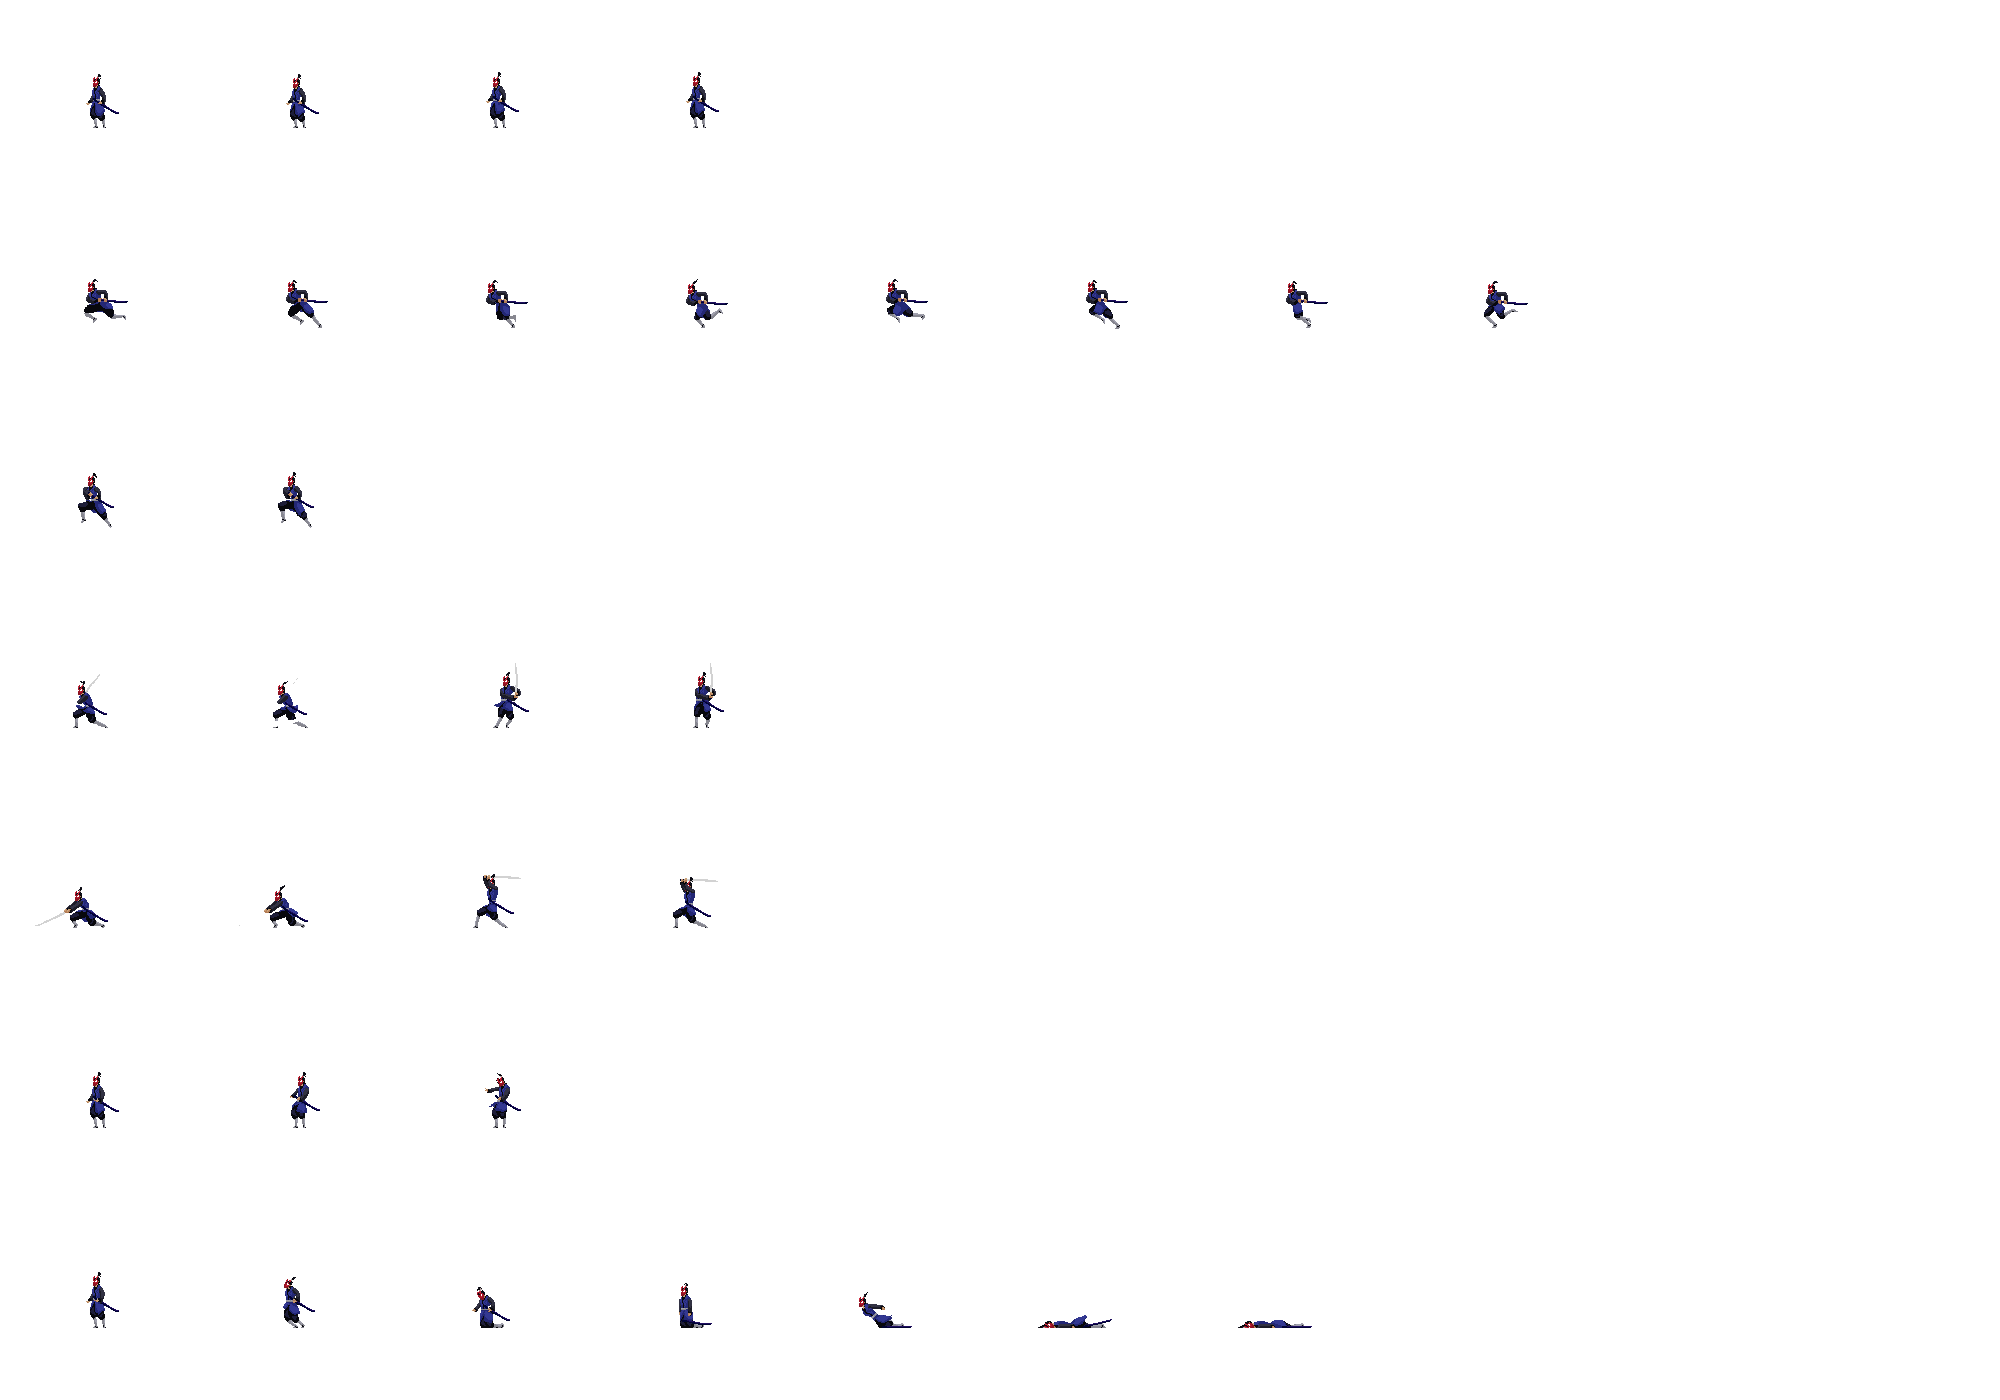
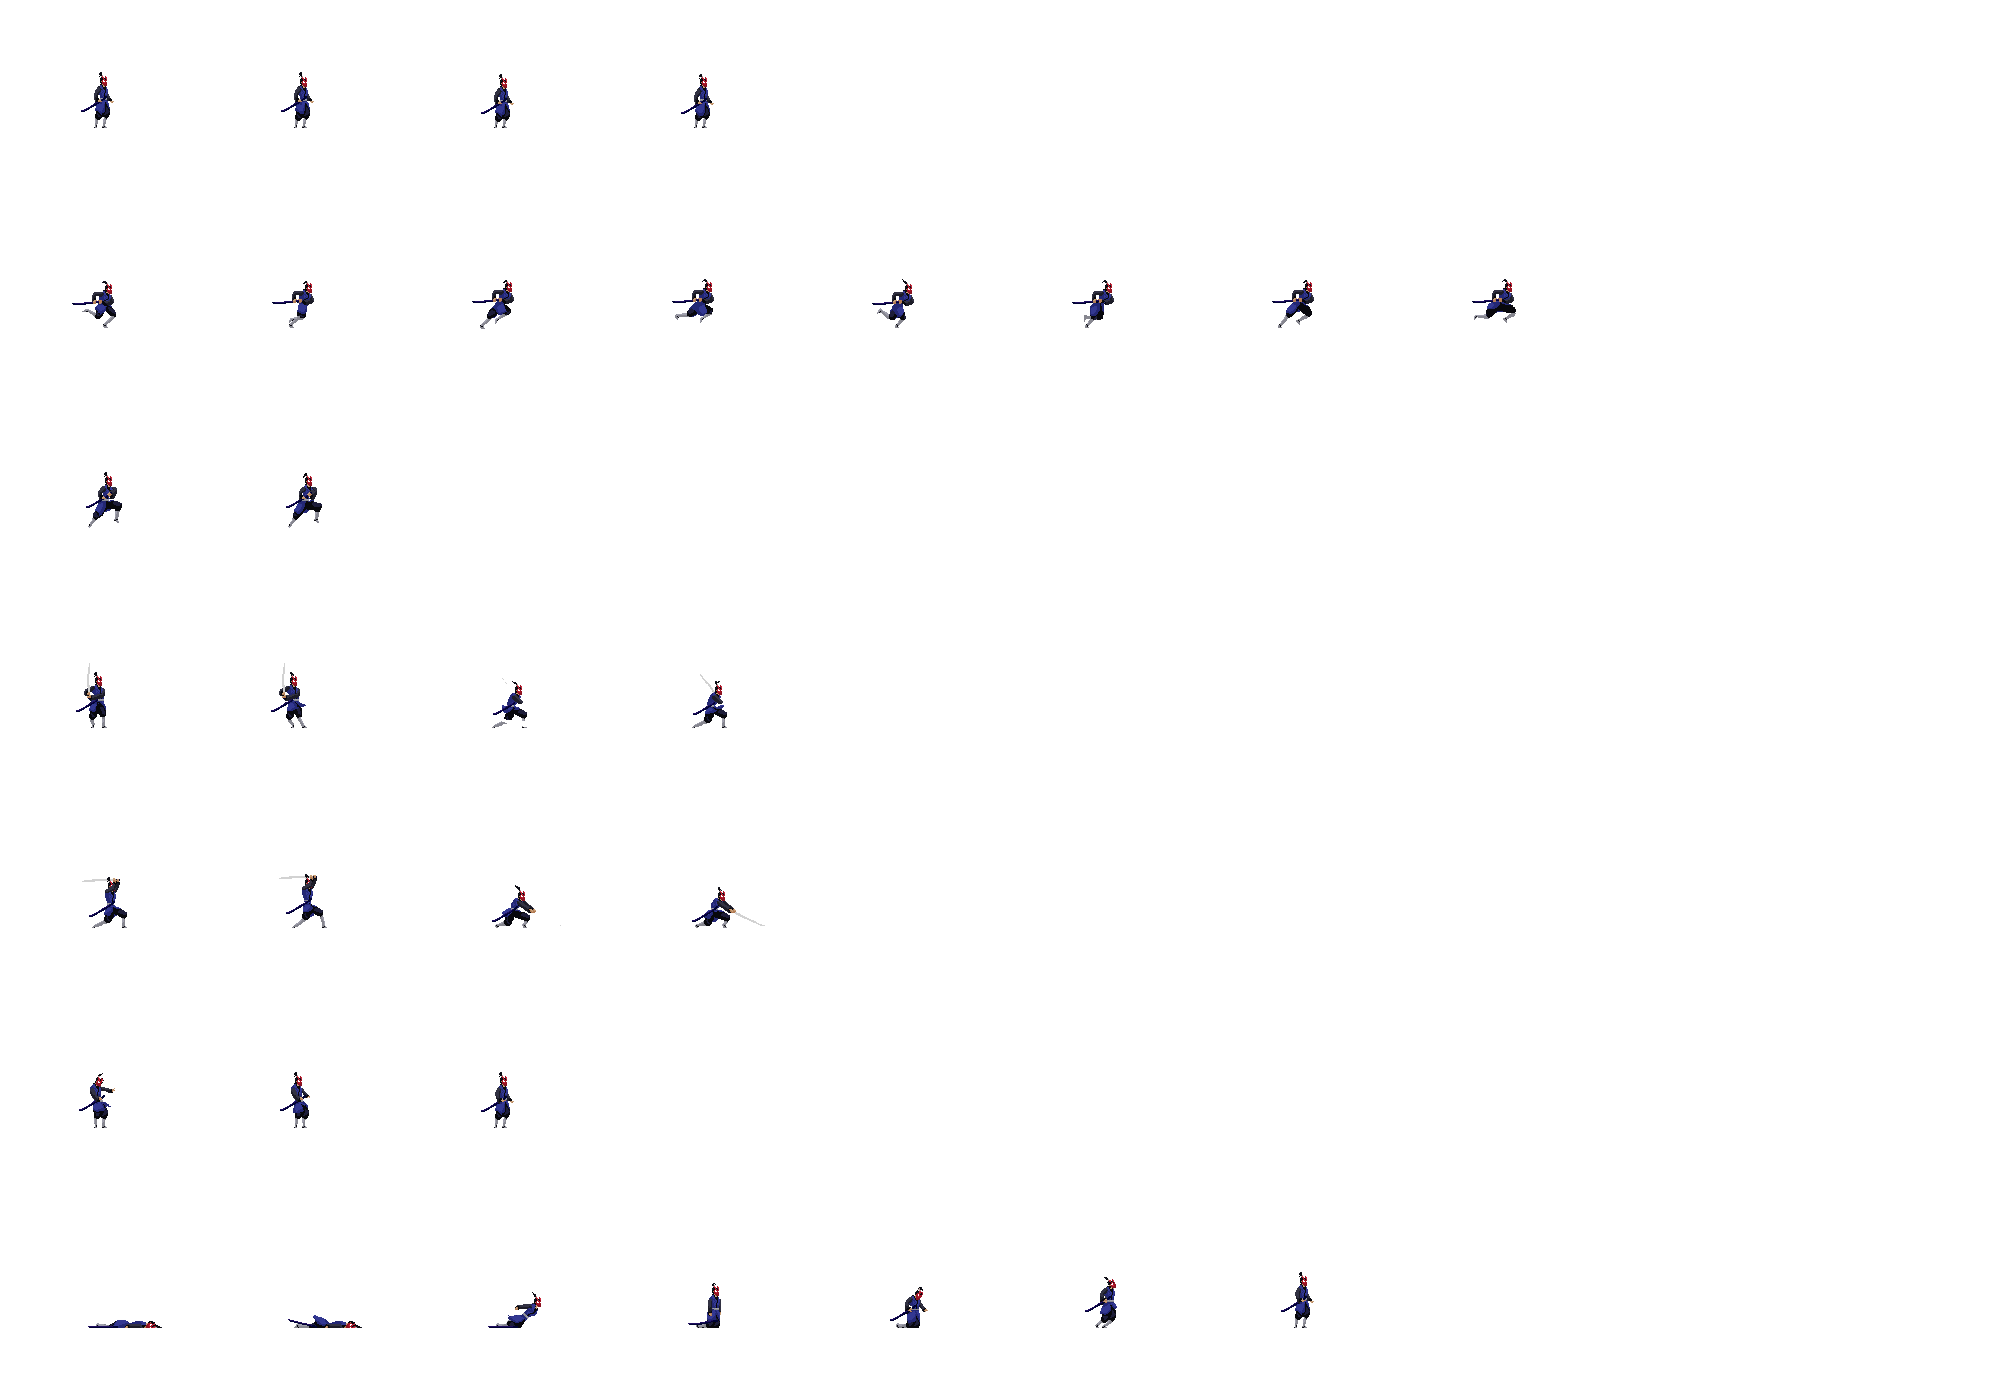
fixing the fliping issue

diff --git a/fighter.py b/fighter.py
@@ -1,11 +1,12 @@
 import pygame
 
 class Fighter():
-    def __init__(self,x,y,flip,data,spritesheet,animation_list):
+    def __init__(self,player,x,y,flip,data,spritesheet,animation_list):
+        self.player = player
         self.size = data[0]
         self.scale = data[1]
         self.offset = data[2]
-        self.flip = flip
+        self.flip =  flip
         self.animationlist = self.load_images(spritesheet,animation_list)
         self.action = 0 #0 = idle, 1 = run, 2 = jumping, 3 = attack1, 4 = attack2 , 5 = hit, 6 = death
         self.frame_index = 0
@@ -51,28 +52,49 @@ class Fighter():
 
         #can only move if not attacking
         if self.attacking == False:
-
+            # check player 1 movement
+            if self.player == 1:
             #movement
-            if key[pygame.K_a]:
-                self.running = True
-                dx = -Speed
-            if key[pygame.K_d]:
-                self.running = True
-                dx = Speed
-            #jumping
-            if key[pygame.K_w] and self.jump == False:
-                self.vel_y = -30
-                self.jump = True
-            #attack
-            if key[pygame.K_s] or key[pygame.K_e]:
-                self.attack(surface,target)
-                #determine which attack is used
-                if key[pygame.K_s]:
+                if key[pygame.K_a]:
+                    self.running = True
+                    dx = -Speed
+                if key[pygame.K_d]:
+                    self.running = True
+                    dx = Speed
+                #jumping
+                if key[pygame.K_w] and self.jump == False:
+                    self.vel_y = -30
+                    self.jump = True
+                #attack
+                if key[pygame.K_s] or key[pygame.K_e]:
+                    self.attack(surface,target)
+                    #determine which attack is used
+                    if key[pygame.K_s]:
+                        self.attack_type = 1
+                    if key[pygame.K_e]:
+                        self.attack_type = 2
+            # check player 2 movement
+            if self.player == 2:
+            #movement
+                if key[pygame.K_LEFT]:
+                    self.running = True
+                    dx = -Speed
+                if key[pygame.K_RIGHT]:
+                    self.running = True
+                    dx = Speed
+                #jumping
+                if key[pygame.K_UP] and self.jump == False:
+                    self.vel_y = -30
+                    self.jump = True
+                #attack
+                if key[pygame.K_DOWN] or key[pygame.K_RETURN]:
+                    self.attack(surface,target)
+                    #determine which attack is used
+                    if key[pygame.K_DOWN]:
+                        self.attack_type = 1
+                    if key[pygame.K_RETURN]:
+                        self.attack_type = 2
 
-                    self.attack_type = 1
-                if key[pygame.K_e]:
-                    self.attack_type = 2
-                pass
 
         # add gravity
         self.vel_y += Gravity

diff --git a/main.py b/main.py
@@ -16,12 +16,12 @@ Red = (255,0,0)
 #define fighter variables
 Samurai_size = 200
 Samurai_sacle =5
-Samurai_offset = [100,80]
+Samurai_offset = [95,80]
 Samurai_data = [Samurai_size,Samurai_sacle,Samurai_offset]
 
 ninja_size = 200
 ninja_sacle =5
-ninja_offset = [50,110]
+ninja_offset = [85,85]
 ninja_data = [ninja_size,ninja_sacle,ninja_offset]
 
 screen = pygame.display.set_mode((Screen_Width, Screen_Height))
@@ -61,8 +61,8 @@ def draw_health_bars(health,x,y):
 
 
 # create 2 instances of the Fighter class
-fighter_1 = Fighter(200, 770,False,Samurai_data,samurai,samurai_animation)
-fighter_2 = Fighter(1200, 770,False,ninja_data,ninja,ninja_animation)
+fighter_1 = Fighter(1,200, 770,False,Samurai_data,samurai,samurai_animation)
+fighter_2 = Fighter(2,1200, 770,True,ninja_data,ninja,ninja_animation)
 # Set up the game loop
 run = True
 while run:
@@ -76,7 +76,7 @@ while run:
     fighter_1.move(Screen_Width, Screen_Height, screen, fighter_2)
 
 
-    #fighter_2.move(Screen_Width, Screen_Height, screen, fighter_1)
+    fighter_2.move(Screen_Width, Screen_Height, screen, fighter_1)
 
     #update fighters
     fighter_1.update_animation()
